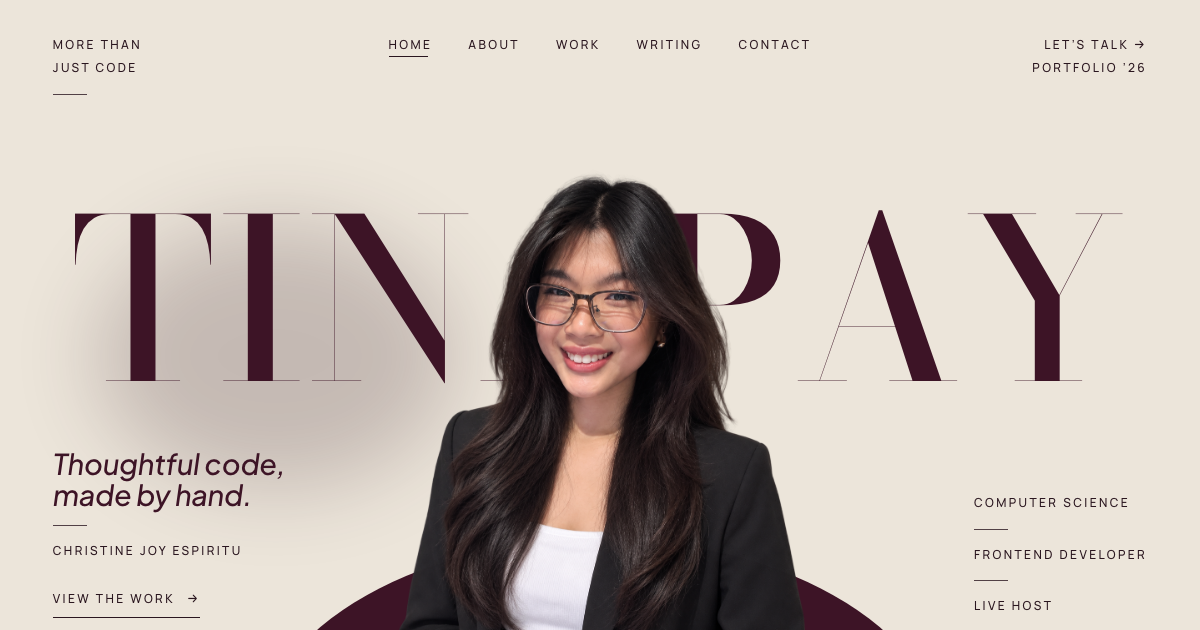
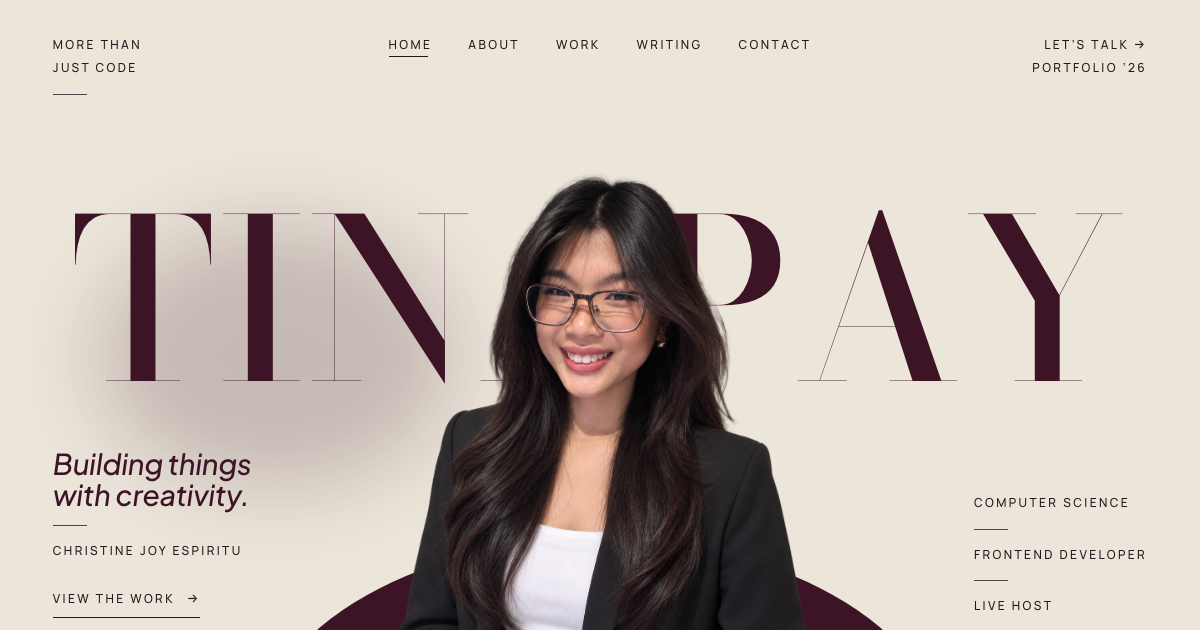
Change hero tagline to "Building things with creativity."
Update the share image to match.

Changed region(s): [[0.0308, 0.7238, 0.2467, 0.8143]]

diff --git a/index.html b/index.html
@@ -59,7 +59,7 @@
         <img class="hero-portrait" src="images/4.png" alt="Christine Joy Espiritu smiling, wearing glasses and a black blazer" width="1145" height="1374" fetchpriority="high">
       </div>
       <div class="hero-left">
-        <p class="it">Thoughtful code,<br>made by hand.</p>
+        <p class="it">Building things<br>with creativity.</p>
         <span class="rule"></span>
         <p class="cap">Christine Joy Espiritu</p>
         <a class="link cap" href="projects.html">View the work <span aria-hidden="true">→</span></a>
